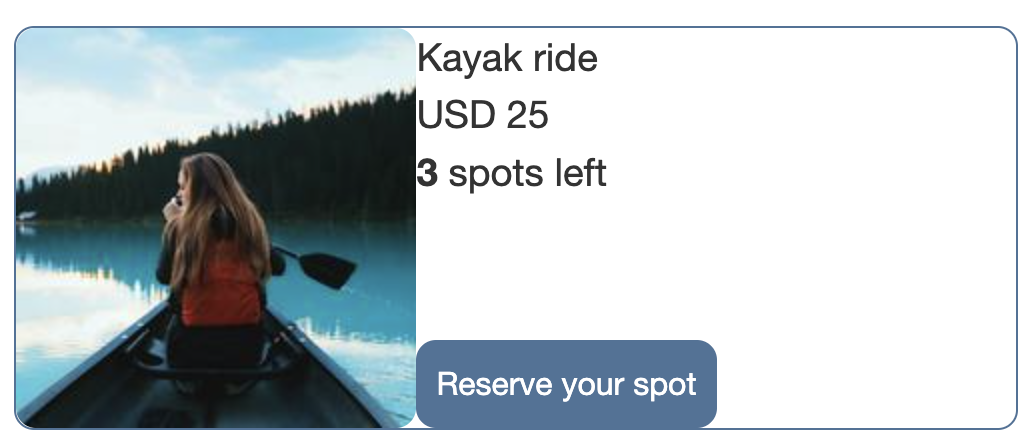
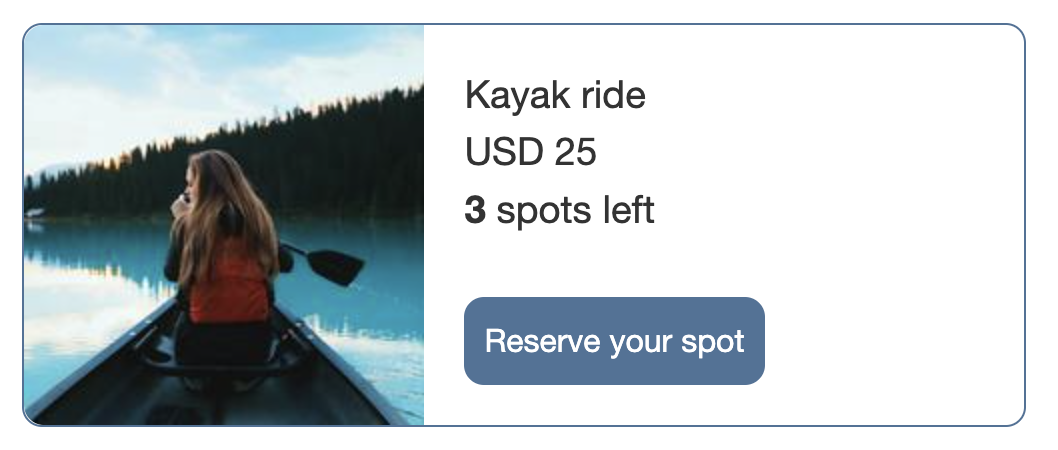
refactor: update README

Changed region(s): [[0.0, 0.0291, 0.9903, 0.9619], [0.3404, 0.583, 0.3714, 0.6121], [0.2785, 0.1166, 0.3095, 0.1457]]

diff --git a/index.html b/index.html
@@ -8,14 +8,13 @@
 
   <body>
     <h1>Flexbox in practice</h1>
-    <p>Use flexbox to achieve the following UI requirements:</p>
+    <p>
+      For this challenge you need to use Flexbox to build each of the following
+      exercises.
+    </p>
+    <p><b>Check the README for instructions.</b></p>
     <div>
       <h2>Exercise 1</h2>
-      <p>The following list items are the navigation for a site.</p>
-      <ul>
-        <li>They should be laid out as a row</li>
-        <li>There should be an equal amount of space between each item</li>
-      </ul>
 
       <div class="nav-items">
         <ul>
@@ -28,17 +27,13 @@
     </div>
     <div>
       <h2>Exercise 2</h2>
-      <p>Center the element inside the container.</p>
+
       <div class="parent">
         <div class="child">Center me</div>
       </div>
     </div>
     <div>
       <h2>Exercise 3</h2>
-      <p>
-        The last row (item stock) should be aligned at the bottom of the
-        container.
-      </p>
 
       <div class="card-3">
         <div class="child-1">Cactus spike</div>
@@ -49,16 +44,13 @@
 
     <div>
       <h2>Exercise 4</h2>
-      <p>Align items to get this UI:</p>
-      <img class="img-demo" src="./images/ex4-demo.png" />
 
-      <p>Hint: you can reuse something from Exercise 3</p>
       <div class="card-4">
         <img
           class="card-img"
           src="https://i.picsum.photos/id/1011/200/200.jpg?hmac=ISwJXaLKDOtBGE_n3myoHUev_P_OH3zpWqLx0yHp0pY"
         />
-        <div>
+        <div class="card-text-wrapper">
           <div>Kayak ride</div>
           <div>USD 25</div>
           <div><b>3</b> spots left</div>
@@ -69,11 +61,6 @@
 
     <div>
       <h2>Exercise 5</h2>
-      <p>
-        We want the items to wrap but to take up the space they need on a
-        line-by-line basis like in the following image:
-      </p>
-      <img class="img-demo" src="./images/ex5-demo.png" />
 
       <ul class="tags">
         <li>Potato</li>

diff --git a/styles.css b/styles.css
@@ -49,7 +49,8 @@ body {
   border: 1px solid #4d7298;
   border-radius: 10px;
   height: 150px;
-  width: 200px;
+  width: 150px;
+  padding: 20px;
 }
 
 /*  ---- end exercise 3 ----  */
@@ -63,6 +64,10 @@ body {
   border: 1px solid #4d7298;
   border-radius: 10px;
   width: 500px;
+}
+
+.card-text-wrapper {
+  padding: 20px;
 }
 
 .card-img {

diff --git a/README.md b/README.md
@@ -1,5 +1,46 @@
-# Flexbox exercises
+# Flexbox Challenge
 
-The Flexible Box Layout Model (flexbox) is a layout model designed for one-dimensional content. It excels at taking a bunch of items which have different sizes, and returning the best layout for those items.
+For this challenge you need to use Flexbox to build each of the following exercises.
 
-This repository contains some exercises you can use to practice your flexbox skills.
+In the `index.html` you can find the base html for each excerise and in `styles.css` the base styles.
+
+Your job is to adjust the code provided in order to reach the UI required by each exercise.
+
+## Exercise 1
+
+You have been provided with a list of items that are the navigation for a site. They should be laid out as a row, with an equal amount of space between each item. The finished example should look like the image below.
+
+<img src="./images/ex1-demo.png" alt="demo" width="700"/>
+
+## Exercise 2
+
+There are two elements in the HTML of Exercise 2, a div with a class of `.parent` which contains another div with a class of `.child`. Use Flexbox to center the child inside the parent.
+
+<img src="./images/ex2-demo.png" alt="demo" width="300"/>
+
+## Exercise 3
+
+Using just flexbox, align the elements provided in the code so that the last row (item stock) stays at the bottom of the container.
+
+<img src="./images/ex3-demo.png" alt="demo" width="300"/>
+
+## Exercise 4
+
+Using just flexbox, align the elements provided in the code so that you get the following UI.
+
+<img src="./images/ex4-demo.png" alt="demo" width="500"/>
+
+## Exercise 5
+
+You have been provided with a list of item. We want the items to wrap but to take up the space they need on a line-by-line basis like in the following image:
+
+<img src="./images/ex5-demo.png" alt="demo" width="700"/>
+
+# What's expected
+
+1. You should modify the code provided to build the UI asked in each exercise.
+2. All exercises should be solved by using just Flexbox.
+
+# Objective
+
+The purpose of this challenge is to get you working with Flexbox and demonstrate your understanding of how flex items behave.
